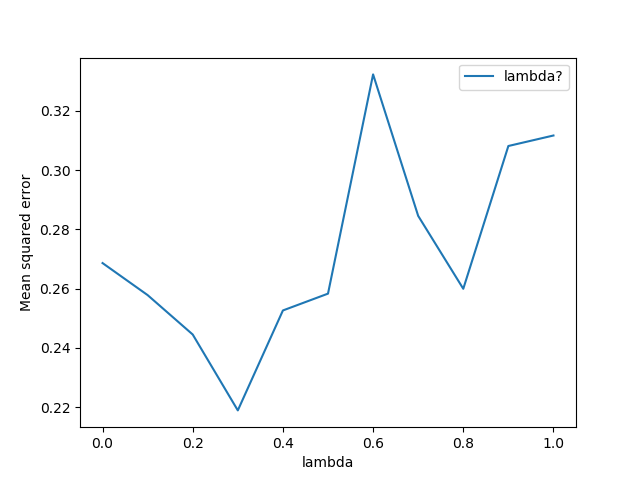
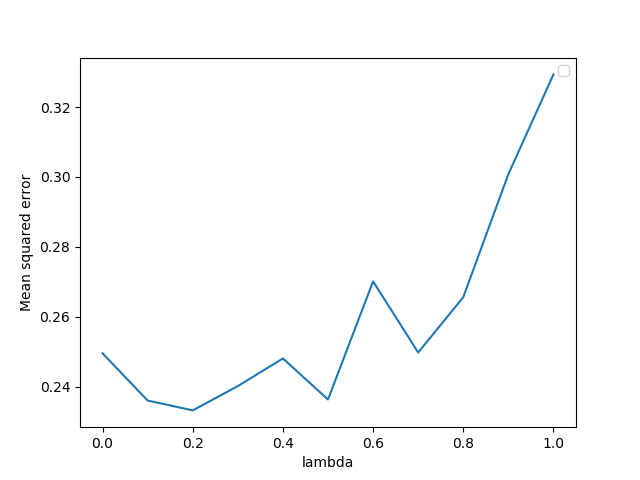
run 500000 episodes for MC

diff --git a/Easy21.py b/Easy21.py
@@ -277,7 +277,7 @@ def plotError_perEpisode(_lambda, meanError):
 # Plots the mean-squared error for each value in _lambda
 def plotError_perLambda(_lambda, meanError):
 	plt.figure()
-	plt.plot(_lambda, meanError, label = 'lambda?')
+	plt.plot(_lambda, meanError, label=None)
 	plt.xlabel('lambda')
 	plt.ylabel('Mean squared error')
 	plt.legend()
@@ -290,10 +290,10 @@ def main():
 	# this is the same as initializing an array with values 0.0, but for the dict we dont need to know the size at the begining
 	# and it will never be to big or to small, keys must also be hashable so i use ints or tuples
 	Qmc = defaultdict(float)
-	win, Qmc = monte_carlo_controll(50000, Qmc)
+	win, Qmc = monte_carlo_controll(500000, Qmc)
 
 	# plot the optimal value function on a heat map, TODO change this to 3D?
-	plot_heatMap(Qmc, 'C_Controll_V(s)_50k_episodes')
+	plot_heatMap(Qmc, 'MC_Control')
 
 	# generate lambda from 0, 0.1, ..., 1.0
 	lmbda = np.arange(0.0, 1.1, 0.1)
@@ -310,12 +310,13 @@ def main():
 		errors_perEpisode.append(meanPerEpisode)
 
 	# Plot mean square error against episodes for lambda 0.0 and lambda 1.0
-	plotError_perEpisode([0.0, 1.0], [errors_perEpisode[0], errors_perEpisode[10]])
+	#plotError_perEpisode([0.0, 1.0], [errors_perEpisode[0], errors_perEpisode[10]])
 	# Plot mean square error against lambda for lambda = [0.1,...0.9]
 	plotError_perLambda(lmbda, errors)
 
 
 	# Code bellow plots value function for sarsa lambda = 1.0, this was not asked for, just for me
+	# Qsarsa = defaultdict(float)
 	#win, mean_err, meanPerEpisode, Qsarsa = sarsa_lambda(50000, Qsarsa, Qmc, _lambda=1.0)
 	#plot_heatMap(Qsarsa, 'Sarsa_lambda')
 
